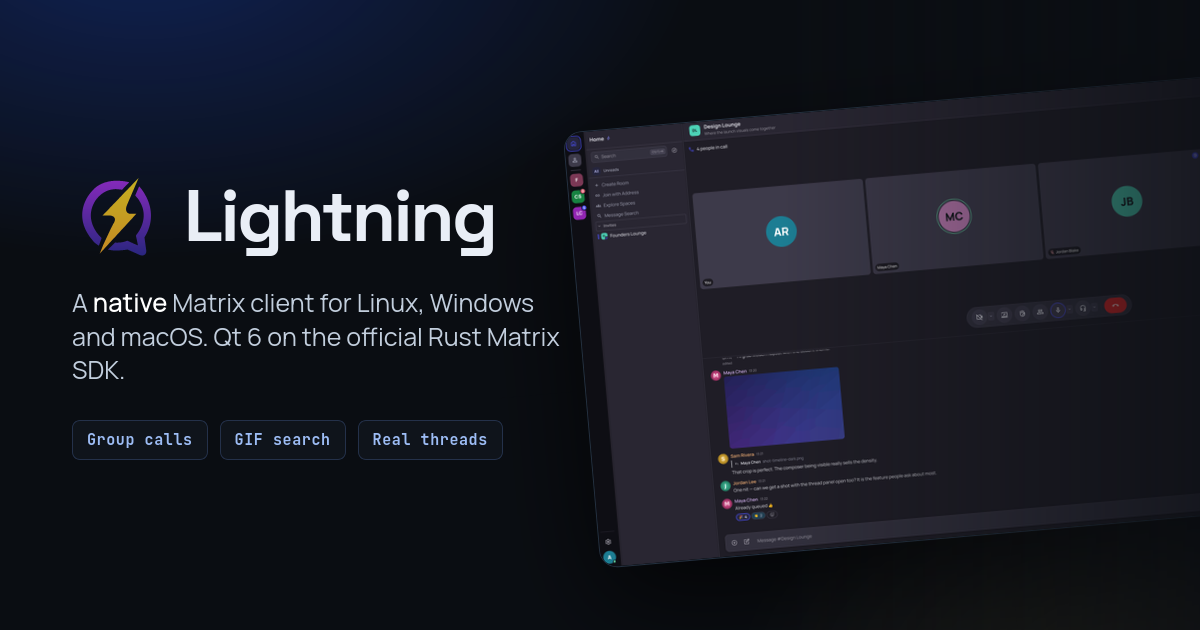
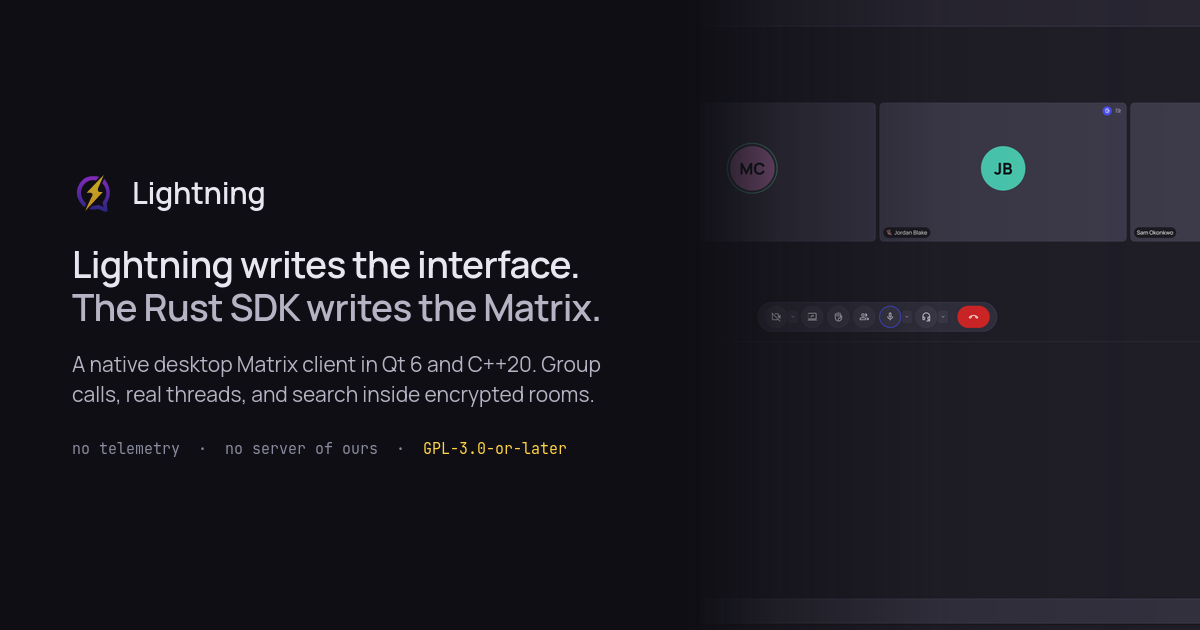
Redraw the social card, and drop the typeface nothing used any more
og-card.png is the first thing anyone sees of this project -- it is what a
link preview shows -- and it still carried the design the front page had just
stopped using: two radial gradients, a rotated screenshot under a drop shadow,
and a 72px wordmark set in SPACE GROTESK, a typeface that appears nowhere on
the site and directly contradicted the colophon's "set in Manrope and JetBrains
Mono, the same faces the application bundles".

It is now the same card the page is: Indigo Night ground, Manrope, the hero's
own two lines, the bolt used once on the licence, and a real screenshot bleeding
off the right edge behind a short fade. No glow, no gradient, no perspective --
the same rule the rest of the redesign follows.

Three things the iteration taught, kept in the file so the next render does not
rediscover them:

* object-fit is INERT on an <img> sized `width:auto;height:100%`. The element
  box already matches the image's own ratio, so nothing is being fitted and
  object-position does nothing; overflow:hidden does the clipping and a
  negative margin chooses the crop.
* A framed panel wastes the card. At 1200x630 a 2400x1278 screenshot inside a
  bordered box leaves 80px of empty card above and below it.
* Do not rely on a fade to keep text legible over a picture. An earlier pass
  put the screenshot behind the copy and a single bright message bubble came
  through the gradient across two lines of it. The picture sits entirely clear
[…]

diff --git a/tools/og-card.html b/tools/og-card.html
@@ -18,42 +18,49 @@
      It is screenshotted rather than drawn in ImageMagick so the type is the
      site's own webfonts, laid out by the same engine as the site.
 
+     Same tokens as build-site.py's :root, and the same rule: no glow, no
+     gradient, no perspective. The card is the first thing anyone sees of this
+     project, and the 2026-09-13 redesign's whole argument is that the page
+     shows the application rather than decorating it. It used to open on two
+     radial gradients and a rotated screenshot in Space Grotesk -- a typeface
+     that appears nowhere on the site and contradicted the colophon's "set in
+     Manrope and JetBrains Mono, the same faces the application bundles".
+
      Do NOT leave this file in public/ -- it is a build input, not a page. -->
 <!doctype html><html><head><meta charset="utf-8">
 <style>
-@font-face{font-family:'Space Grotesk';src:url("/fonts/space-grotesk-latin.woff2") format('woff2');font-weight:700;font-display:block}
-@font-face{font-family:'Space Grotesk';src:url("/fonts/space-grotesk-latin.woff2") format('woff2');font-weight:500;font-display:block}
 @font-face{font-family:'Manrope';src:url("/fonts/manrope-latin.woff2") format('woff2');font-weight:400;font-display:block}
-@font-face{font-family:'JetBrains Mono';src:url("/fonts/jetbrains-mono-latin.woff2") format('woff2');font-weight:700;font-display:block}
+@font-face{font-family:'Manrope';src:url("/fonts/manrope-latin.woff2") format('woff2');font-weight:600;font-display:block}
+@font-face{font-family:'JetBrains Mono';src:url("/fonts/jetbrains-mono-latin.woff2") format('woff2');font-weight:400;font-display:block}
 *{margin:0;padding:0;box-sizing:border-box}
 html,body{width:1200px;height:630px;overflow:hidden}
-body{background:#0a0d12;color:#e9eef6;font-family:'Manrope',sans-serif;position:relative}
-.glow{position:absolute;inset:0;background:
-  radial-gradient(900px 520px at 12% -10%, rgba(29,87,255,0.28), transparent 62%),
-  radial-gradient(700px 420px at 96% 108%, rgba(255,212,71,0.10), transparent 60%);}
-.wrap{position:relative;height:100%;display:flex;align-items:center;padding:0 0 0 72px;gap:44px}
-.left{width:520px;flex:none}
-.lock{display:flex;align-items:center;gap:20px}
-.lock img{display:block;width:92px;height:92px}
-.name{font-family:'Space Grotesk',sans-serif;font-weight:700;font-size:72px;letter-spacing:-0.035em;line-height:1}
-.sub{margin-top:24px;font-size:25px;line-height:1.34;color:#c2cedd;font-weight:400}
-.sub b{color:#fff;font-weight:600}
-.meta{margin-top:34px;display:flex;gap:12px;flex-wrap:wrap}
-.chip{font-family:'JetBrains Mono',monospace;font-size:15px;font-weight:700;letter-spacing:0.04em;
-  padding:9px 14px;border-radius:8px;border:1px solid #24314a;background:rgba(16,22,30,0.8);color:#9dbdf5}
-.shot{position:absolute;right:-200px;top:50%;transform:translateY(-50%) rotate(-5deg);
-  width:820px;border-radius:18px;overflow:hidden;border:1px solid #24303f;
-  box-shadow:0 40px 110px rgba(0,0,0,0.75)}
-.shot img{display:block;width:100%}
-.fade{position:absolute;right:0;top:0;bottom:0;width:420px;
-  background:linear-gradient(90deg,transparent,rgba(10,13,18,0.72))}
+body{background:#0E0E14;color:#E8E6F0;font-family:'Manrope',sans-serif;position:relative}
+.wrap{position:relative;height:100%;display:flex;flex-direction:column;justify-content:center;
+  padding:0 0 0 72px;width:650px}
+.lock{display:flex;align-items:center;gap:16px}
+.lock img{display:block;width:44px;height:44px}
+.name{font-weight:600;font-size:30px;letter-spacing:-0.01em;line-height:1}
+.head{margin-top:28px;font-size:37px;line-height:1.16;font-weight:600;letter-spacing:-0.02em}
+.head span{color:#B6B3C4}
+.sub{margin-top:20px;font-size:21px;line-height:1.45;color:#B6B3C4;font-weight:400}
+.meta{margin-top:30px;font-family:'JetBrains Mono',monospace;font-size:15px;color:#8A8C9E}
+.meta b{color:#FFD447;font-weight:400}
+/* Full-bleed on the right rather than a floating framed panel: at 1200x630 a
+   2400x1278 screenshot inside a bordered box leaves 80px of empty card above
+   and below it, and a link preview is too small to spend that. */
+.shot{position:absolute;right:0;top:0;height:630px;width:500px;overflow:hidden}
+.shot img{display:block;height:100%;width:auto;max-width:none;margin-left:-500px}
+/* Short, and it only has to soften the seam: the picture sits entirely to the
+   right of the text now, so nothing legible is being rescued by opacity. */
+.fade{position:absolute;right:0;top:0;bottom:0;width:640px;
+  background:linear-gradient(90deg,#0E0E14 0%,#0E0E14 20%,rgba(14,14,20,0.55) 34%,rgba(14,14,20,0.10) 60%,transparent 100%)}
 </style></head><body>
-<div class="glow"></div>
 <div class="shot"><img src="/assets/screenshot-call.png"></div>
 <div class="fade"></div>
-<div class="wrap"><div class="left">
+<div class="wrap">
   <div class="lock"><img src="/assets/lightning-mark.svg"><div class="name">Lightning</div></div>
-  <div class="sub">A <b>native</b> Matrix client for Linux, Windows and&nbsp;macOS. Qt&nbsp;6 on the official Rust Matrix SDK.</div>
-  <div class="meta"><span class="chip">Group calls</span><span class="chip">GIF search</span><span class="chip">Real threads</span></div>
-</div></div>
+  <div class="head">Lightning writes the interface.<br><span>The Rust SDK writes the Matrix.</span></div>
+  <div class="sub">A native desktop Matrix client in Qt&nbsp;6 and C++20. Group calls, real threads, and search inside encrypted rooms.</div>
+  <div class="meta">no telemetry&nbsp; ·&nbsp; no server of ours&nbsp; ·&nbsp; <b>GPL-3.0-or-later</b></div>
+</div>
 </body></html>

diff --git a/public/index.html b/public/index.html
@@ -11,7 +11,7 @@
 <meta property="og:image" content="https://www.lightning-matrix.org/assets/og-card.png">
 <link rel="canonical" href="https://www.lightning-matrix.org/">
 <link rel="icon" href="/assets/lightning-mark.svg">
-<script type="application/ld+json">{"@context":"https://schema.org","@type":"SoftwareApplication","name":"Lightning","url":"https://www.lightning-matrix.org/","applicationCategory":"CommunicationApplication","applicationSubCategory":"Matrix client","operatingSystem":"Linux, Windows, macOS","softwareVersion":"0.9.4","softwareRequirements":"Qt 6.5 or later","license":"https://www.gnu.org/licenses/gpl-3.0.html","isAccessibleForFree":true,"description":"A native Matrix desktop client written in Qt 6 on top of the official Rust Matrix SDK, with group calls, threads, Spaces and search inside encrypted rooms.","offers":{"@type":"Offer","price":"0","priceCurrency":"USD"},"sameAs":["https://github.com/Mizerd/lightning"],"codeRepository":"https://github.com/Mizerd/lightning","screenshot":["https://www.lightning-matrix.org/assets/screenshot-thread-panel.png","https://www.lightning-matrix.org/assets/screenshot-call.png","https://www.lightning-matrix.org/assets/screenshot-channels.png","https://www.lightning-matrix.org/assets/screenshot-timeline.png","https://www.lightning-matrix.org/assets/screenshot-emoji-and-polls.png","https://www.lightning-matrix.org/assets/screenshot-theme-editor.png"],"author":{"@type":"Person","name":"Rokas Smetonis"}}</script>
+<script type="application/ld+json">{"@context":"https://schema.org","@type":"SoftwareApplication","name":"Lightning","url":"https://www.lightning-matrix.org/","applicationCategory":"CommunicationApplication","applicationSubCategory":"Matrix client","operatingSystem":"Linux, Windows, macOS","softwareVersion":"0.9.4","softwareRequirements":"Qt 6.8 or later","license":"https://www.gnu.org/licenses/gpl-3.0.html","isAccessibleForFree":true,"description":"A native Matrix desktop client written in Qt 6 on top of the official Rust Matrix SDK, with group calls, threads, Spaces and search inside encrypted rooms.","offers":{"@type":"Offer","price":"0","priceCurrency":"USD"},"sameAs":["https://github.com/Mizerd/lightning"],"codeRepository":"https://github.com/Mizerd/lightning","screenshot":["https://www.lightning-matrix.org/assets/screenshot-thread-panel.png","https://www.lightning-matrix.org/assets/screenshot-call.png","https://www.lightning-matrix.org/assets/screenshot-channels.png","https://www.lightning-matrix.org/assets/screenshot-timeline.png","https://www.lightning-matrix.org/assets/screenshot-emoji-and-polls.png","https://www.lightning-matrix.org/assets/screenshot-theme-editor.png"],"author":{"@type":"Person","name":"Rokas Smetonis"}}</script>
 <style>
 @font-face {
   font-family: 'JetBrains Mono';

diff --git a/tools/build-site.py b/tools/build-site.py
@@ -178,7 +178,7 @@ LD = {
     "applicationCategory": "CommunicationApplication",
     "applicationSubCategory": "Matrix client",
     "operatingSystem": "Linux, Windows, macOS",
-    "softwareVersion": VERSION, "softwareRequirements": "Qt 6.5 or later",
+    "softwareVersion": VERSION, "softwareRequirements": "Qt 6.8 or later",
     "license": "https://www.gnu.org/licenses/gpl-3.0.html",
     "isAccessibleForFree": True,
     "description": ("A native Matrix desktop client written in Qt 6 on top of "

diff --git a/README.md b/README.md
@@ -26,7 +26,7 @@ public/              <- everything Cloudflare serves (the assets directory)
     lightning-mark.svg
     screenshot-*.png
     og-card.png        <- 1200x630 link preview; source in tools/og-card.html
-  fonts/*.woff2      <- Manrope, JetBrains Mono, Space Grotesk (self-hosted)
+  fonts/*.woff2      <- Manrope and JetBrains Mono (self-hosted subsets)
 
 wrangler.jsonc       <- Cloudflare config: serve public/, 404.html on miss
 src/
